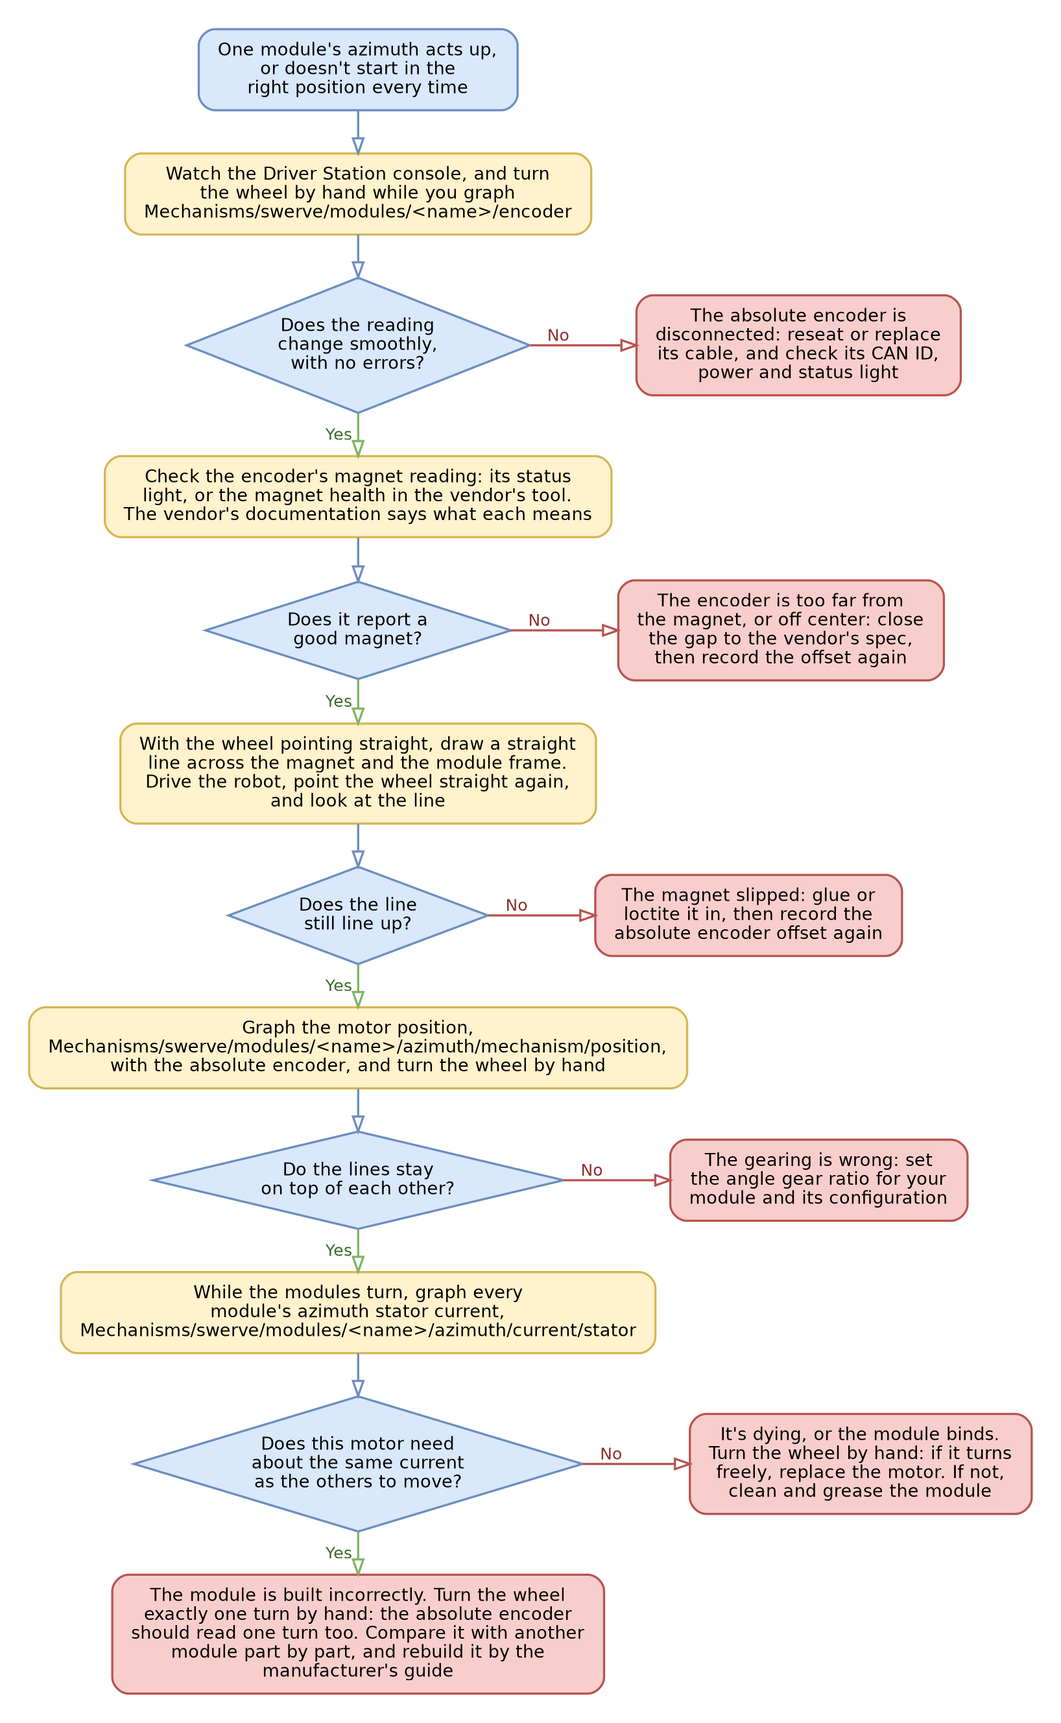
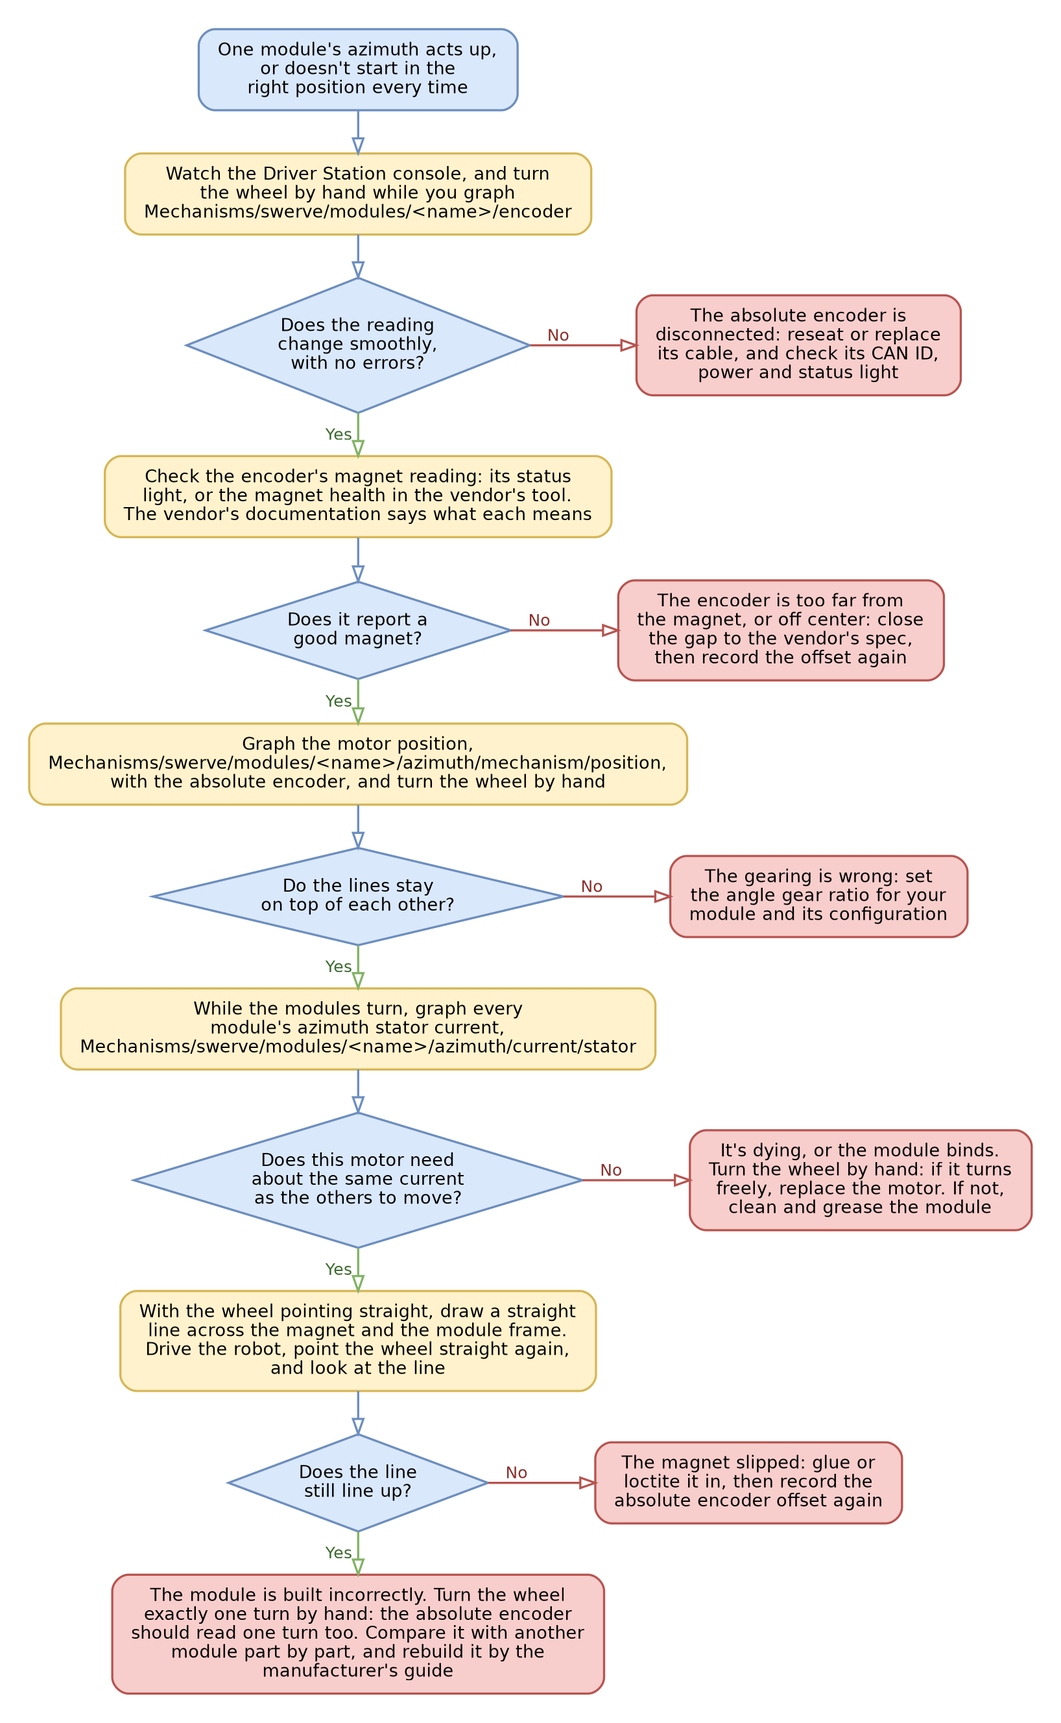
Flowcharts: fast checks first, slow checks last

Changed region(s): [[0.0, 0.4061, 0.9976, 0.9059]]

diff --git a/how-to/troubleshooting-flowchart.md b/how-to/troubleshooting-flowchart.md
@@ -1,7 +1,7 @@
 # Troubleshooting flowchart
 
-Pick the chart that matches what your robot is doing, and follow it from the top. Each chart checks the quickest
-causes first. The yellow boxes tell you how to check, and the blue question after each one asks what you saw. The links under each chart go to the pages its boxes mention.
+Pick the chart that matches what your robot is doing, and follow it from the top. Each chart puts the fast checks first,
+such as reading a graph, and the slow ones last, such as measuring the robot. The yellow boxes tell you how to check, and the blue question after each one asks what you saw. The links under each chart go to the pages its boxes mention.
 
 * [Set up a robot with the config guide](#set-up-a-robot-with-the-config-guide)
 * [Robot drives slower than it should](#robot-drives-slower-than-it-should)
@@ -38,7 +38,7 @@ driving, in nine steps. This is the same path, with the checks that send you to 
 
 ## Robot drives slower than it should
 
-<figure><img src="../.gitbook/assets/yagsl-flowchart-slow.png" alt="A flowchart for: Robot drives slower than it should. Put the robot on blocks, run the spin test from Determine inversion, and watch which way each wheel drives. Does any module push against the others? If yes, that module runs backwards: flip its drive inversion, or record its absolute encoder offset again if it's 180° off. If no, continue. Check your drive code for scaling, such as withScaleTranslation or multiplying the controller axis. Is the input scaled down? If yes, remove the scaling, or make it a slow mode on purpose. If no, continue. At full stick, graph the desired module states, Mechanisms/swerve/states/desired. Do they reach your robot's top speed? If no, check the maximum speed: the drive motor type, gear ratio and wheel diameter it comes from, and any withMaximumChassisSpeed. If yes, continue. Graph a module's measured speed, Mechanisms/swerve/modules/<name>/drive/measurement/velocity, with the desired states. Does the measured speed reach the desired speed? If no, tune the drive PID and feedforward. If yes, continue. Push the robot a measured distance, such as 3 m, and compare odometry, Mechanisms/swerve/pose. Does odometry agree? If no, the robot thinks it's faster than it is: check the gear ratio and measure the wheels. If yes, continue. Check how much free storage the SystemCore has left. Is it nearly full? If yes, delete old logs, then reboot the SystemCore. If no, continue. If every check passes: check the battery under load, and that statorCurrentLimit isn't set too low."><figcaption><p>Robot drives slower than it should.</p></figcaption></figure>
+<figure><img src="../.gitbook/assets/yagsl-flowchart-slow.png" alt="A flowchart for: Robot drives slower than it should. Check your drive code for scaling, such as withScaleTranslation or multiplying the controller axis. Is the input scaled down? If yes, remove the scaling, or make it a slow mode on purpose. If no, continue. At full stick, graph the desired module states, Mechanisms/swerve/states/desired. Do they reach your robot's top speed? If no, check the maximum speed: the drive motor type, gear ratio and wheel diameter it comes from, and any withMaximumChassisSpeed. If yes, continue. Graph a module's measured speed, Mechanisms/swerve/modules/<name>/drive/measurement/velocity, with the desired states. Does the measured speed reach the desired speed? If no, tune the drive PID and feedforward. If yes, continue. Put the robot on blocks, run the spin test from Determine inversion, and watch which way each wheel drives. Does any module push against the others? If yes, that module runs backwards: flip its drive inversion, or record its absolute encoder offset again if it's 180° off. If no, continue. Push the robot a measured distance, such as 3 m, and compare odometry, Mechanisms/swerve/pose. Does odometry agree? If no, the robot thinks it's faster than it is: check the gear ratio and measure the wheels. If yes, continue. Check how much free storage the SystemCore has left. Is it nearly full? If yes, delete old logs, then reboot the SystemCore. If no, continue. If every check passes: check the battery under load, and that statorCurrentLimit isn't set too low."><figcaption><p>Robot drives slower than it should.</p></figcaption></figure>
 
 * The spin test, drive inversion and offsets: [Determine inversion](determine-inversion.md)
 * Graphing the module states: [Set up AdvantageScope](set-up-advantagescope.md)
@@ -49,7 +49,7 @@ driving, in nine steps. This is the same path, with the checks that send you to 
 
 ## Autonomous is consistently off
 
-<figure><img src="../.gitbook/assets/yagsl-flowchart-auto.png" alt="A flowchart for: Autonomous is consistently off: it ends short or long by about the same amount. Mark the floor, push the robot a measured distance, such as 3 m, and compare odometry, Mechanisms/swerve/pose. Does odometry agree? If yes, odometry is right, so the path following is off: see the Robot is drifting flowchart and Set up PathPlanner. If no, continue. Look up your module's drive gear ratio for its configuration in Standard Conversion Factors or the config generator. Does your config match it? If no, fix the drive gear ratio. If yes, continue. Measure a wheel as it is now: use calipers, or roll it one turn and divide the distance by π. Does the diameter match your config? If no, worn tread is smaller than new: update the wheel diameter, or replace the tread. If yes, continue. If every check passes: check that no module has its own gearing override, and that the wheels aren't slipping: lower the path's maximum acceleration."><figcaption><p>Autonomous ends short or long by about the same amount every time.</p></figcaption></figure>
+<figure><img src="../.gitbook/assets/yagsl-flowchart-auto.png" alt="A flowchart for: Autonomous is consistently off: it ends short or long by about the same amount. Look up your module's drive gear ratio for its configuration in Standard Conversion Factors or the config generator. Does your config match it? If no, fix the drive gear ratio. If yes, continue. Measure a wheel as it is now: use calipers, or roll it one turn and divide the distance by π. Does the diameter match your config? If no, worn tread is smaller than new: update the wheel diameter, or replace the tread. If yes, continue. Mark the floor, push the robot a measured distance, such as 3 m, and compare odometry, Mechanisms/swerve/pose. Does odometry agree? If no, check that no module has its own gearing override, and that the wheels aren't slipping: lower the path's maximum acceleration. If yes, continue. If every check passes: odometry is right, so the path following is off: see the Robot is drifting flowchart and Set up PathPlanner."><figcaption><p>Autonomous ends short or long by about the same amount every time.</p></figcaption></figure>
 
 * Gear ratios and wheel diameters: [Standard Conversion Factors](../reference/standard-conversion-factors.md)
 * Path following: [Fix swerve drive drift](../reference/swerve-drift-causes.md)
@@ -64,7 +64,7 @@ chart branches on how it drifts:
 
 Both branches end at discretization, which YAGSL normally handles.
 
-<figure><img src="../.gitbook/assets/yagsl-flowchart-drift.png" alt="A flowchart for a robot that drifts while it drives. Drive around while you watch the Driver Station console. Loop overruns just after the code starts are normal. Any errors? If yes, fix them first: check the wiring of the encoder, motor controller and gyro. If no, continue. Point every wheel forward with its bevel gear on the left, reboot, then graph each absolute encoder, Mechanisms/swerve/modules/<name>/encoder. Does each read 0? If no, bad absolute encoder offsets: record them again. If they keep changing, see One module doesn't start in the right position. If yes, continue. How does it drift? If it slides off its line without turning, follow the translational checks. If its heading turns on its own, follow the rotational checks. Translational: Drive straight slowly, and graph each module's azimuth motor position with its absolute encoder: ../<name>/azimuth/mechanism/position and ../<name>/encoder. This only checks the angle gearing. Do the lines stay on top of each other? If no, the angle gear ratio doesn't match the absolute encoder: fix it for your module and its configuration. If yes, continue. In field-relative driving, drive forward, turn 90°, then drive forward again. In robot-relative driving the direction changes as it turns, which is normal. In field-relative driving, does the direction change as the robot turns? If yes, work through the 8 steps. If no, continue. While driving, graph the desired and current module states, Mechanisms/swerve/states/desired and ../states/current. Does each module reach its angle? If no, tune the azimuth PID and feedforward. If yes, continue. Rotational: Leave the robot still for a minute, and graph the gyro heading, Mechanisms/swerve/gyro. Does the heading change while the robot sits still? If yes, the gyro drifts: zero it at the start of your program. Older gyros like the Pigeon 1 and NavX 1 drift the longer they're powered on. If no, continue. While driving straight, graph every module's drive stator current, ../<name>/drive/current/stator. Does one module need much more current than the others? If yes, its drive motor is dying, or the module binds. Turn the wheel by hand: if it turns freely, replace the motor. If not, clean and grease the module. If no, continue. While driving, graph the desired and current module states, Mechanisms/swerve/states/desired and ../states/current. Does each module reach its speed? If no, tune the drive PID and feedforward. If yes, continue. Measure every wheel's diameter, and look for a gearing override in each module's JSON. Are the wheels the same size, with no per-module gearing? If no, replace worn tread so the wheels match, and remove per-module gearing overrides. If yes, continue. Both paths then continue: Drive straight while rotating, then drive straight without rotating. Does it drift only when driving and rotating at once? If yes, discretization, which YAGSL normally handles: if you set withDiscretizationTime, check it, then tune the gyro angular velocity scale factor. If no, continue. If every check passes: check the rest of Fix swerve drive drift: vision standard deviations, current limits, the center of gravity, PathPlanner."><figcaption><p>Robot drifts while it drives: translational on the left, rotational on the right.</p></figcaption></figure>
+<figure><img src="../.gitbook/assets/yagsl-flowchart-drift.png" alt="A flowchart for a robot that drifts while it drives. Drive around while you watch the Driver Station console. Loop overruns just after the code starts are normal. Any errors? If yes, fix them first: check the wiring of the encoder, motor controller and gyro. If no, continue. Point every wheel forward with its bevel gear on the left, reboot, then graph each absolute encoder, Mechanisms/swerve/modules/<name>/encoder. Does each read 0? If no, bad absolute encoder offsets: record them again. If they keep changing, see One module doesn't start in the right position. If yes, continue. How does it drift? If it slides off its line without turning, follow the translational checks. If its heading turns on its own, follow the rotational checks. Translational: While driving, graph the desired and current module states, Mechanisms/swerve/states/desired and ../states/current. Does each module reach its angle? If no, tune the azimuth PID and feedforward. If yes, continue. Drive straight slowly, and graph each module's azimuth motor position with its absolute encoder: ../<name>/azimuth/mechanism/position and ../<name>/encoder. This only checks the angle gearing. Do the lines stay on top of each other? If no, the angle gear ratio doesn't match the absolute encoder: fix it for your module and its configuration. If yes, continue. In field-relative driving, drive forward, turn 90°, then drive forward again. In robot-relative driving the direction changes as it turns, which is normal. In field-relative driving, does the direction change as the robot turns? If yes, work through the 8 steps. If no, continue. Rotational: While driving, graph the desired and current module states, Mechanisms/swerve/states/desired and ../states/current. Does each module reach its speed? If no, tune the drive PID and feedforward. If yes, continue. While driving straight, graph every module's drive stator current, ../<name>/drive/current/stator. Does one module need much more current than the others? If yes, its drive motor is dying, or the module binds. Turn the wheel by hand: if it turns freely, replace the motor. If not, clean and grease the module. If no, continue. Measure every wheel's diameter, and look for a gearing override in each module's JSON. Are the wheels the same size, with no per-module gearing? If no, replace worn tread so the wheels match, and remove per-module gearing overrides. If yes, continue. Leave the robot still for a minute, and graph the gyro heading, Mechanisms/swerve/gyro. Does the heading change while the robot sits still? If yes, the gyro drifts: zero it at the start of your program. Older gyros like the Pigeon 1 and NavX 1 drift the longer they're powered on. If no, continue. Both paths then continue: Drive straight while rotating, then drive straight without rotating. Does it drift only when driving and rotating at once? If yes, discretization, which YAGSL normally handles: if you set withDiscretizationTime, check it, then tune the gyro angular velocity scale factor. If no, continue. If every check passes: check the rest of Fix swerve drive drift: vision standard deviations, current limits, the center of gravity, PathPlanner."><figcaption><p>Robot drifts while it drives: translational on the left, rotational on the right.</p></figcaption></figure>
 
 * Wiring and gyros: [Fix swerve drive drift](../reference/swerve-drift-causes.md#hardware-causes) and
   [Gyroscopes](../reference/hardware/gyroscopes.md)
@@ -79,7 +79,7 @@ Both branches end at discretization, which YAGSL normally handles.
 
 ## Wheels not pointing straight
 
-<figure><img src="../.gitbook/assets/yagsl-flowchart-align.png" alt="A flowchart for: Wheels don't all point straight when you drive straight. List every device in Phoenix Tuner X or the REV Hardware Client. Do the CAN IDs and device types match each module's JSON? If no, fix them in each module's JSON file. If yes, continue. On blocks, turn one wheel by hand at a time and watch which module moves in AdvantageScope's Swerve tab. Does the matching module move? If no, put the module files in swervedrive.json's modules list in order: front left, front right, back left, back right. If yes, continue. Measure from the robot's center to each module's center in inches, and compare with each module's location, also in inches. Do the locations match? If no, fix the locations, in inches. See Verify your module locations. If yes, continue. Point every wheel forward with its bevel gear on the left, then graph each absolute encoder, Mechanisms/swerve/modules/<name>/encoder. Does each read 0? If no, record that module's absolute encoder offset again. If yes, continue. Graph the desired and current module states, Mechanisms/swerve/states/desired and Mechanisms/swerve/states/current. Does each module reach its angle? If no, tune the azimuth PID and feedforward. If yes, continue. Open a DataLog from a match, and graph the desired and current module states while the robot is pushed or turning hard. Do the modules fall behind their angle in a match, but not on blocks? If yes, the angle current limit is too low: raise statorCurrentLimit.angle in physicalproperties.json (the default is 20 A). If no, continue. If every check passes: only one module still acts up: see One module doesn't start in the right position."><figcaption><p>Wheels don't all point straight when you drive straight.</p></figcaption></figure>
+<figure><img src="../.gitbook/assets/yagsl-flowchart-align.png" alt="A flowchart for: Wheels don't all point straight when you drive straight. Graph the desired and current module states, Mechanisms/swerve/states/desired and Mechanisms/swerve/states/current. Does each module reach its angle? If no, tune the azimuth PID and feedforward. If yes, continue. On blocks, turn one wheel by hand at a time and watch which module moves in AdvantageScope's Swerve tab. Does the matching module move? If no, put the module files in swervedrive.json's modules list in order: front left, front right, back left, back right. If yes, continue. Point every wheel forward with its bevel gear on the left, then graph each absolute encoder, Mechanisms/swerve/modules/<name>/encoder. Does each read 0? If no, record that module's absolute encoder offset again. If yes, continue. List every device in Phoenix Tuner X or the REV Hardware Client. Do the CAN IDs and device types match each module's JSON? If no, fix them in each module's JSON file. If yes, continue. Measure from the robot's center to each module's center in inches, and compare with each module's location, also in inches. Do the locations match? If no, fix the locations, in inches. See Verify your module locations. If yes, continue. Open a DataLog from a match, and graph the desired and current module states while the robot is pushed or turning hard. Do the modules fall behind their angle in a match, but not on blocks? If yes, the angle current limit is too low: raise statorCurrentLimit.angle in physicalproperties.json (the default is 20 A). If no, continue. If every check passes: only one module still acts up: see One module doesn't start in the right position."><figcaption><p>Wheels don't all point straight when you drive straight.</p></figcaption></figure>
 
 * Device type strings: [Device Type Strings](../reference/json-schema/device-types.md)
 * Module locations: [Verify your module locations](verify-module-locations.md)
@@ -93,23 +93,9 @@ Both branches end at discretization, which YAGSL normally handles.
 ## One module doesn't start in the right position
 
 When one module's azimuth acts up, or points somewhere different each time the robot starts, the problem is almost
-always in that module's hardware or its gearing. Check the easy causes first: a module built incorrectly is the
-last thing to suspect.
+always in that module's hardware or its gearing. A module built incorrectly is the last thing to suspect.
 
-<figure><img src="../.gitbook/assets/yagsl-flowchart-azimuth.png" alt="A flowchart for: One module's azimuth acts up, or doesn't start in the right position every time. Watch the Driver Station console, and turn the wheel by hand while you graph Mechanisms/swerve/modules/<name>/encoder. Does the reading change smoothly, with no errors? If no, the absolute encoder is disconnected: reseat or replace its cable, and check its CAN ID, power and status light. If yes, continue. Check the encoder's magnet reading: its status light, or the magnet health in the vendor's tool. The vendor's documentation says what each means. Does it report a good magnet? If no, the encoder is too far from the magnet, or off center: close the gap to the vendor's spec, then record the offset again. If yes, continue. With the wheel pointing straight, draw a straight
-line across the magnet and the module frame.
-Drive the robot, point the wheel straight again,
-and look at the line. Does the line
-still line up? If no, the magnet slipped: glue or
-loctite it in, then record the
-absolute encoder offset again. If yes, continue. Graph the motor position, Mechanisms/swerve/modules/<name>/azimuth/mechanism/position, with the absolute encoder, and turn the wheel by hand. Do the lines stay on top of each other? If no, the gearing is wrong: set the angle gear ratio for your module and its configuration. If yes, continue. While the modules turn, graph every
-module's azimuth stator current,
-Mechanisms/swerve/modules/<name>/azimuth/current/stator. Does this motor need
-about the same current
-as the others to move? If no, it's dying, or the module binds.
-Turn the wheel by hand: if it turns
-freely, replace the motor. If not,
-clean and grease the module. If yes, continue. If every check passes: the module is built incorrectly. Turn the wheel exactly one turn by hand: the absolute encoder should read one turn too. Compare it with another module part by part, and rebuild it by the manufacturer's guide."><figcaption><p>One module's azimuth acts up, or doesn't start in the right position every time.</p></figcaption></figure>
+<figure><img src="../.gitbook/assets/yagsl-flowchart-azimuth.png" alt="A flowchart for: One module's azimuth acts up, or doesn't start in the right position every time. Watch the Driver Station console, and turn the wheel by hand while you graph Mechanisms/swerve/modules/<name>/encoder. Does the reading change smoothly, with no errors? If no, the absolute encoder is disconnected: reseat or replace its cable, and check its CAN ID, power and status light. If yes, continue. Check the encoder's magnet reading: its status light, or the magnet health in the vendor's tool. The vendor's documentation says what each means. Does it report a good magnet? If no, the encoder is too far from the magnet, or off center: close the gap to the vendor's spec, then record the offset again. If yes, continue. Graph the motor position, Mechanisms/swerve/modules/<name>/azimuth/mechanism/position, with the absolute encoder, and turn the wheel by hand. Do the lines stay on top of each other? If no, the gearing is wrong: set the angle gear ratio for your module and its configuration. If yes, continue. While the modules turn, graph every module's azimuth stator current, Mechanisms/swerve/modules/<name>/azimuth/current/stator. Does this motor need about the same current as the others to move? If no, it's dying, or the module binds. Turn the wheel by hand: if it turns freely, replace the motor. If not, clean and grease the module. If yes, continue. With the wheel pointing straight, draw a straight line across the magnet and the module frame. Drive the robot, point the wheel straight again, and look at the line. Does the line still line up? If no, the magnet slipped: glue or loctite it in, then record the absolute encoder offset again. If yes, continue. If every check passes: the module is built incorrectly. Turn the wheel exactly one turn by hand: the absolute encoder should read one turn too. Compare it with another module part by part, and rebuild it by the manufacturer's guide."><figcaption><p>One module's azimuth acts up, or doesn't start in the right position every time.</p></figcaption></figure>
 
 * What the magnet status light or reading means: your encoder's page under [Absolute Encoders](../reference/hardware/absolute-encoders.md), and the vendor's documentation
 * Reading the absolute encoder and recording offsets: [Check and calibrate your hardware](../tutorial/04-verify-and-calibrate-hardware.md)
